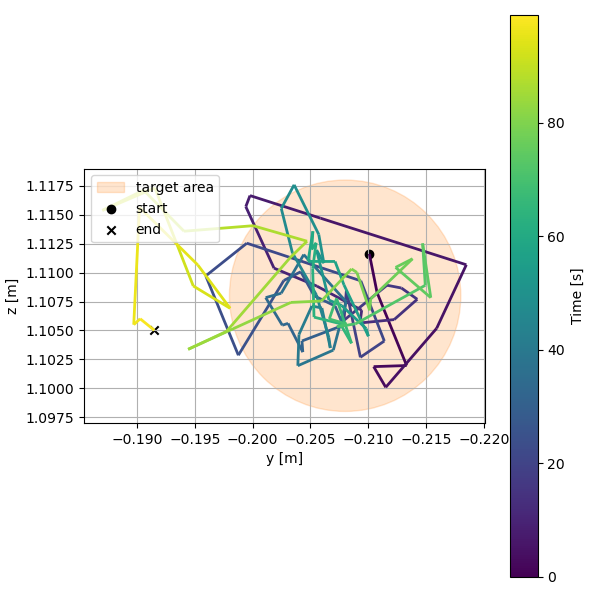
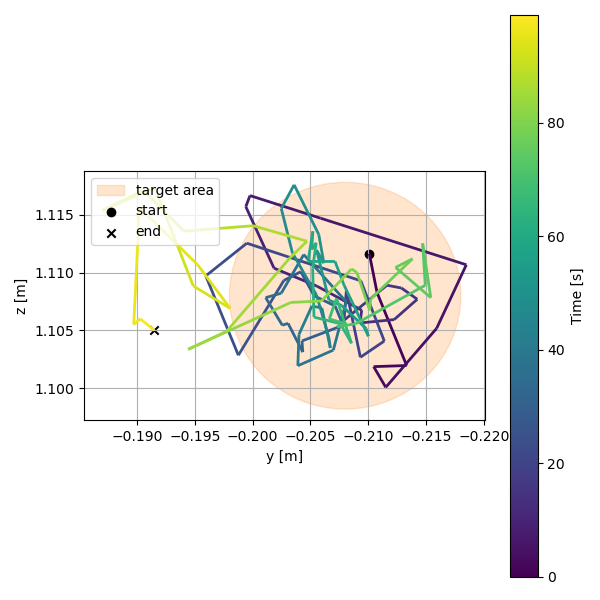
[scripts][figures][data] npz save format

diff --git a/scripts/draw_trajectory.py b/scripts/draw_trajectory.py
@@ -8,8 +8,9 @@ import argparse
 import os
 from mpl_toolkits.mplot3d.art3d import Line3DCollection
 from matplotlib.ticker import MaxNLocator
+from matplotlib import patches
 
-def draw_2D_trajectory(file_name, tx, ty, tz, r, angled, axis):
+def draw_2D_trajectory(file_name, r, angled, axis):
     file_path = os.path.normpath(os.path.join(os.getcwd(), file_name))
 
     # read data from npz file
@@ -18,6 +19,9 @@ def draw_2D_trajectory(file_name, tx, ty, tz, r, angled, axis):
     x = data["x"]
     y = data["y"]
     z = data["z"]
+    tx = data["tx"]
+    ty = data["ty"]
+    tz = data["tz"]
 
     # adjust for LineCollection
     if axis == "x":
@@ -45,7 +49,10 @@ def draw_2D_trajectory(file_name, tx, ty, tz, r, angled, axis):
             tz = float(tz)
             r = float(r)
 
-            target_circle = Circle((ty, tz), r, color="C1", alpha=0.2, label="target area")
+            if angled:
+                target_circle = patches.Ellipse((ty, tz), 2*r, 2*r*np.cos(0.2), color="C1", alpha=0.2, label="target area")
+            else:
+                target_circle = Circle((ty, tz), r, color="C1", alpha=0.2, label="target area")
             ax.add_patch(target_circle)
 
         # start and end
@@ -106,7 +113,7 @@ def draw_2D_trajectory(file_name, tx, ty, tz, r, angled, axis):
         ax.set_aspect("equal", adjustable="box")
         plt.show()
 
-def draw_3D_trajectory(file_name, tx, ty, tz, r, angled):
+def draw_3D_trajectory(file_name, r, angled):
     file_path = os.path.normpath(os.path.join(os.getcwd(), file_name))
 
     # read data from npz file
@@ -115,6 +122,9 @@ def draw_3D_trajectory(file_name, tx, ty, tz, r, angled):
     x = data["x"]
     y = data["y"]
     z = data["z"]
+    tx = data["tx"]
+    ty = data["ty"]
+    tz = data["tz"]
 
     # adjust for Line3DCollection
     points = np.array([x, y, z]).T.reshape(-1, 1, 3)
@@ -192,9 +202,9 @@ if __name__ == "__main__":
     parser = argparse.ArgumentParser()
     parser.add_argument("file_name", help="rosbag file")
     parser.add_argument("-m", "--mode", help="trajectory generate mode(2:2D, 3:3D)")
-    parser.add_argument("-x", "--target_x", help="target x position")
-    parser.add_argument("-y", "--target_y", help="target y position")
-    parser.add_argument("-z", "--target_z", help="target z position")
+    # parser.add_argument("-x", "--target_x", help="target x position")
+    # parser.add_argument("-y", "--target_y", help="target y position")
+    # parser.add_argument("-z", "--target_z", help="target z position")
     parser.add_argument("-r", "--radius", help="target radius")
     parser.add_argument("-a", "--angled", help="angled wall flag")
     parser.add_argument("--axis", default="x", help="normal axis")
@@ -211,8 +221,8 @@ if __name__ == "__main__":
     angled = args.angled
     axis = args.axis
     if mode == 2:
-        draw_2D_trajectory(file_name, x, y, z, r, angled, axis)
+        draw_2D_trajectory(file_name, r, angled, axis)
     elif mode == 3:
-        draw_3D_trajectory(file_name, x, y, z, r, angled)
+        draw_3D_trajectory(file_name, r, angled)
     else:
         print("invalid mode")

diff --git a/scripts/plot_from_npz.py b/scripts/plot_from_npz.py
@@ -4,13 +4,16 @@ import matplotlib.pyplot as plt
 import os
 import argparse
 
-def plot_from_npz(file_name):
+def plot_from_npz(file_name, rx, ry, rz):
     file_path = os.path.normpath(os.path.join(os.getcwd(), file_name))
     data = np.load(file_path)
     time = data["time"]
     x = data["x"]
     y = data["y"]
     z = data["z"]
+    tx = data["tx"]
+    ty = data["ty"]
+    tz = data["tz"]
     # plt.rcParams.update({
     #     "font.size": 14,
     #     "axes.grid": True,
@@ -20,20 +23,42 @@ def plot_from_npz(file_name):
     #     "legend.frameon": False,
     # })
 
+    display_range = 0.03
+    mx = (x.max()+x.min()) * 0.5
+    my = (y.max()+y.min()) * 0.5
+    mz = (z.max()+z.min()) * 0.5
+
     fig, ax = plt.subplots(3, 1, sharex=True, figsize=(8, 8))
 
     ax[0].plot(time, x, label="x")
+    ax[0].axhline(tx, color="C1", alpha=0.5)
+    if rx:
+        rx = float(rx)
+        ax[0].axhspan(tx-rx, tx+rx, color="C1", alpha=0.2)
     ax[0].set_ylabel("x [m]")
+    ax[0].set_xlabel("Time [s]")
     ax[0].legend()
+    ax[0].set_ylim(mx - display_range, mx + display_range)
 
     ax[1].plot(time, y, label="y")
+    ax[1].axhline(ty, color="C1", alpha=0.5)
+    if ry:
+        ry = float(ry)
+        ax[1].axhspan(ty-ry, ty+ry, color="C1", alpha=0.2)
     ax[1].set_ylabel("y [m]")
+    ax[1].set_xlabel("Time [s]")
     ax[1].legend()
+    ax[1].set_ylim(my - display_range, my + display_range)
 
     ax[2].plot(time, z, label="z")
+    ax[2].axhline(tz, color="C1", alpha=0.5)
+    if rz:
+        rz = float(rz)
+        ax[2].axhspan(tz-rz, tz+rz, color="C1", alpha=0.2)
     ax[2].set_ylabel("z [m]")
     ax[2].set_xlabel("Time [s]")
     ax[2].legend()
+    ax[2].set_ylim(mz - display_range, mz + display_range)
 
     plt.tight_layout()
     plt.show()
@@ -41,6 +66,12 @@ def plot_from_npz(file_name):
 if __name__ == "__main__":
     parser = argparse.ArgumentParser()
     parser.add_argument("file_name", help="npz file")
+    parser.add_argument("--rx", help="target range(x)")
+    parser.add_argument("--ry", help="target range(y)")
+    parser.add_argument("--rz", help="target range(z)")
     args = parser.parse_args()
     file_name = args.file_name
-    plot_from_npz(file_name)
+    rx = args.rx
+    ry = args.ry
+    rz = args.rz
+    plot_from_npz(file_name, rx, ry, rz)
